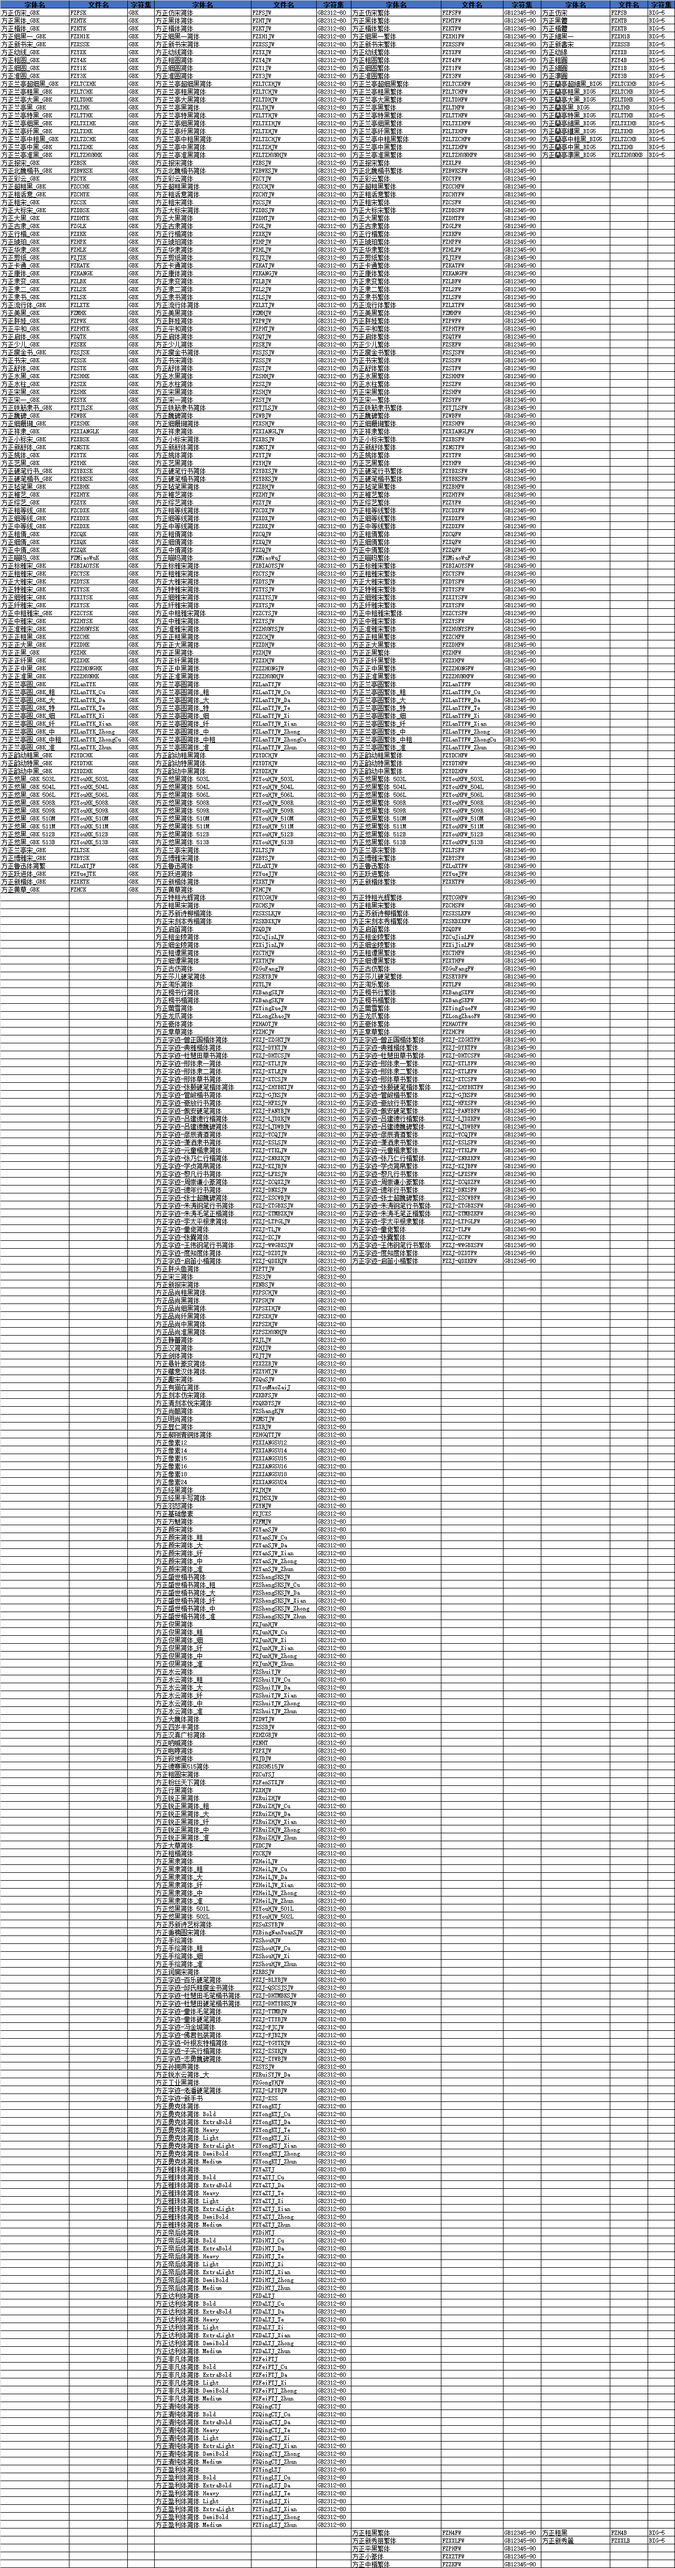
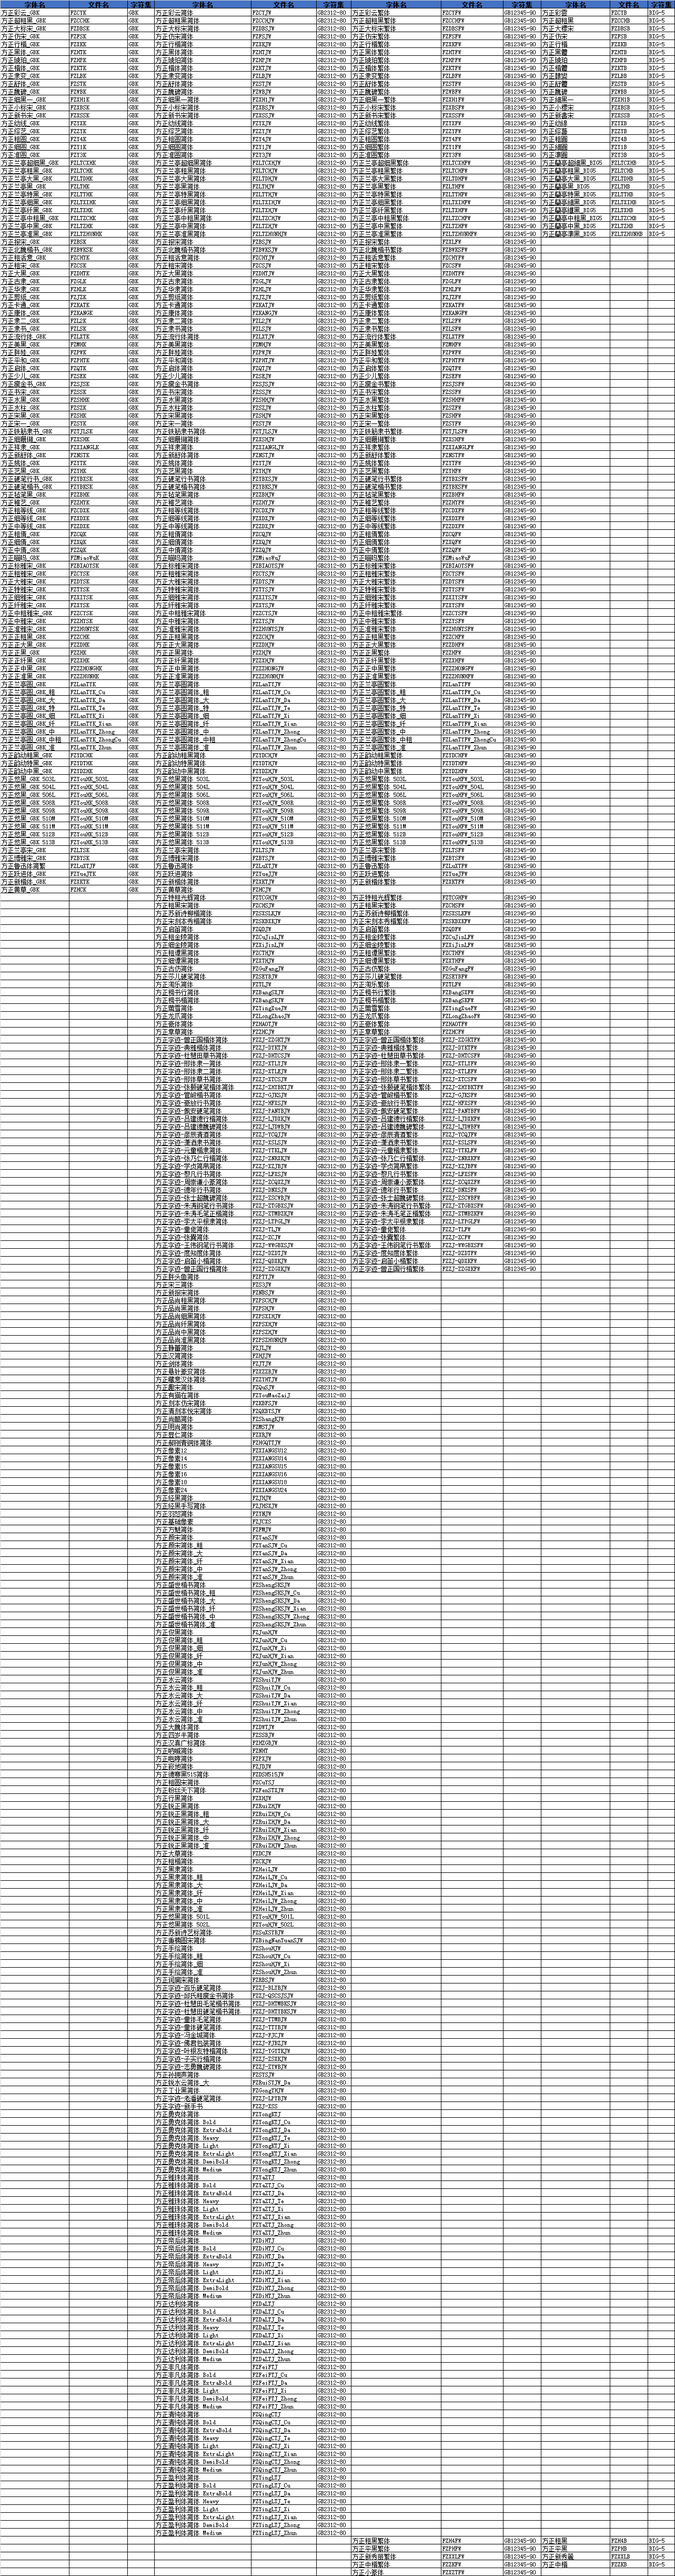
字体上架:方正彩雲/方正超粗黑/方正大標宋/方正行楷/方正琥珀/方正隸變/方正平黑/方正舒體/方正魏碑/方正小標宋/方正中楷/方正字迹－曾正国行楷繁体/方正字迹-曾正国行楷简体/方正綜藝

Changed region(s): [[0.0, 0.0, 1.0, 1.0]]

diff --git a/README.md b/README.md
@@ -12,23 +12,28 @@
 
 方正字体样张:[http://shop.foundertype.com/index.php/Index/downSample.html](http://shop.foundertype.com/index.php/Index/downSample.html)
 
-目前官方商城在售字体616种：
+目前官方商城在售字体630种：
 
 | 字符集     | 字体数     |
 |------------|------------|
-| GB2312-80  | 319        |
-| GB12345-90 | 163        |
-| GBK        | 112        |
-| BIG-5      | 21         |
+| GB2312-80  | 319+1      |
+| GB12345-90 | 163+1      |
+| GBK        | 111+1      |
+| BIG-5      | 33         |
 |GB18030-2000| 1          |
 |GB18030-2005| 0          |
 
 | 字体名                      | 文件名             | 字符集     |
 |-----------------------------|--------------------|------------|
+| 方正彩雲                    | FZCYB              | BIG-5      |
+| 方正超粗黑                  | FZCCHB             | BIG-5      |
 | 方正粗黑                    | FZH4B              | BIG-5      |
 | 方正粗圓                    | FZY4B              | BIG-5      |
+| 方正大標宋                  | FZDBSB             | BIG-5      |
 | 方正仿宋                    | FZFSB              | BIG-5      |
+| 方正行楷                    | FZXKB              | BIG-5      |
 | 方正黑體                    | FZHTB              | BIG-5      |
+| 方正琥珀                    | FZHPB              | BIG-5      |
 | 方正楷體                    | FZKTB              | BIG-5      |
 | 方正蘭亭超細黑_BIG5         | FZLTCXHB           | BIG-5      |
 | 方正蘭亭粗黑_BIG5           | FZLTCHB            | BIG-5      |
@@ -40,12 +45,19 @@
 | 方正蘭亭中粗黑_BIG5         | FZLTZCHB           | BIG-5      |
 | 方正蘭亭中黑_BIG5           | FZLTZHB            | BIG-5      |
 | 方正蘭亭準黑_BIG5           | FZLTZHUNHB         | BIG-5      |
+| 方正隸變                    | FZLBB              | BIG-5      |
+| 方正平黑                    | FZPHB              | BIG-5      |
+| 方正舒體                    | FZSTB              | BIG-5      |
+| 方正魏碑                    | FZWBB              | BIG-5      |
 | 方正細黑一                  | FZXH1B             | BIG-5      |
 | 方正細圓                    | FZY1B              | BIG-5      |
+| 方正小標宋                  | FZXBSB             | BIG-5      |
 | 方正新書宋                  | FZXSSB             | BIG-5      |
 | 方正新秀麗                  | FZXXLB             | BIG-5      |
 | 方正幼線                    | FZYXB              | BIG-5      |
+| 方正中楷                    | FZZKB              | BIG-5      |
 | 方正準圓                    | FZY3B              | BIG-5      |
+| 方正綜藝                    | FZZYB              | BIG-5      |
 | 方正榜书行繁体              | FZBangSXFW         | GB12345-90 |
 | 方正榜书楷繁体              | FZBangSKFW         | GB12345-90 |
 | 方正报宋繁体                | FZXLFW             | GB12345-90 |
@@ -179,6 +191,7 @@
 | 方正中雅宋繁体              | FZZYSFW            | GB12345-90 |
 | 方正准雅宋繁体              | FZZHUNYSFW         | GB12345-90 |
 | 方正准圆繁体                | FZY3FW             | GB12345-90 |
+| 方正字迹－曾正国行楷繁体    | FZZJ-ZZGXKFW       | GB12345-90 |
 | 方正字迹-曾正国楷体繁体     | FZZJ-ZZGKTFW       | GB12345-90 |
 | 方正字迹-德年行书繁体       | FZZJ-DNXSFW        | GB12345-90 |
 | 方正字迹-典雅楷体繁体       | FZZJ-DYKTFW        | GB12345-90 |
@@ -486,6 +499,7 @@
 | 方正准雅宋简体              | FZZHUNYSJW         | GB2312-80  |
 | 方正准圆简体                | FZY3JW             | GB2312-80  |
 | 方正字迹-百乐硬笔简体       | FZZJ-BLYBJW        | GB2312-80  |
+| 方正字迹-曾正国行楷简体     | FZZJ-ZZGXKJW       | GB2312-80  |
 | 方正字迹-曾正国楷体简体     | FZZJ-ZZGKTJW       | GB2312-80  |
 | 方正字迹-德年行书简体       | FZZJ-DNXSJW        | GB2312-80  |
 | 方正字迹-典雅楷体简体       | FZZJ-DYKTJW        | GB2312-80  |
